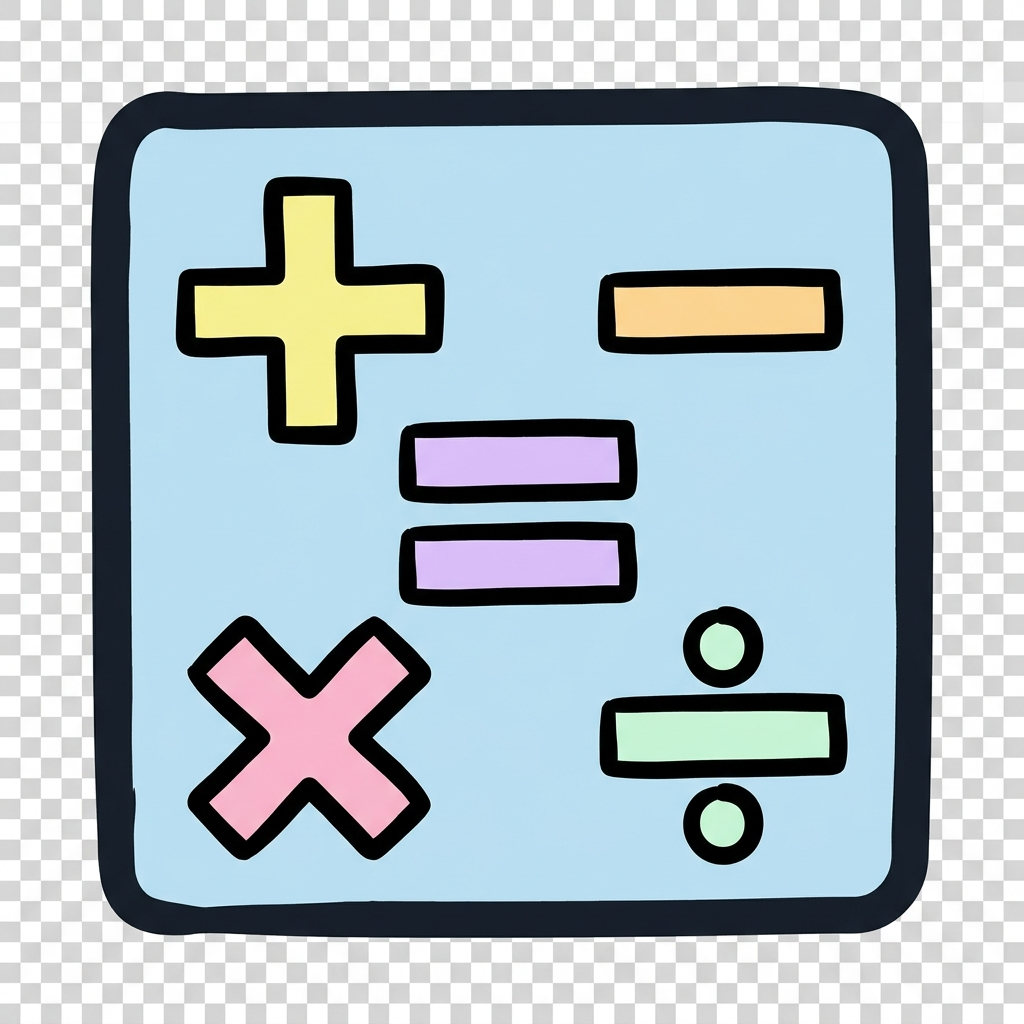
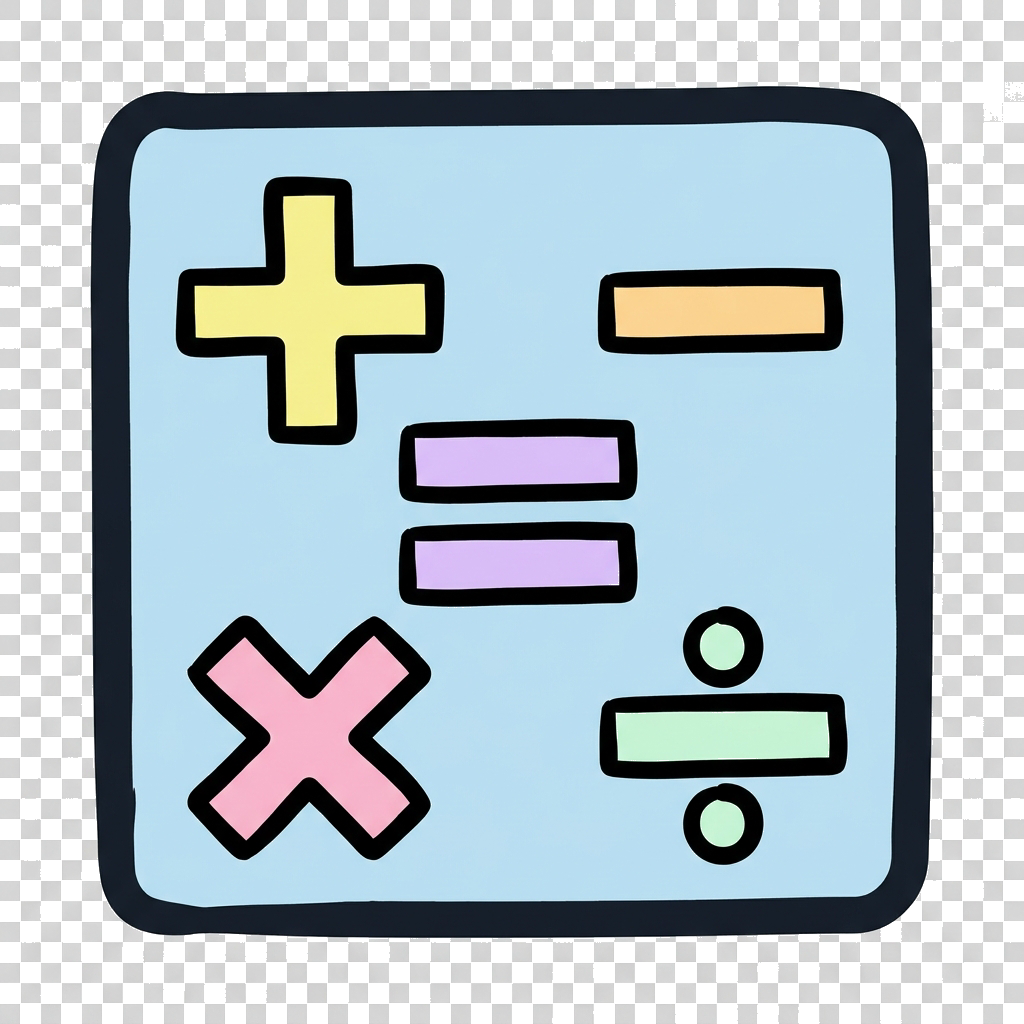
fix blog crash

Changed region(s): [[0.9375, 0.0625, 1.0, 0.125]]

diff --git a/src/pages/Blog.tsx b/src/pages/Blog.tsx
@@ -42,7 +42,7 @@ const posts: BlogMeta[] = Object.entries(modules).map(([path, rawContent]) => {
     draft: attributes.draft === 'true' || attributes.draft === true,
     slug 
   } as BlogMeta;
-}).filter(p => !p.draft || import.meta.env.DEV).sort((a, b) => new Date(b.date).getTime() - new Date(a.date).getTime());
+}).filter(p => !p.draft || import.meta.env.DEV).sort((a, b) => new Date(b.date || Date.now()).getTime() - new Date(a.date || Date.now()).getTime());
 
 const MultiSelectDropdown = ({ options, selected, onChange, placeholder }: any) => {
   const [isOpen, setIsOpen] = useState(false);
@@ -133,14 +133,14 @@ const Blog = () => {
   const [selectedYear, setSelectedYear] = useState<string>('All');
   const [sortOrder, setSortOrder] = useState<'newest' | 'oldest'>('newest');
 
-  const categories = Array.from(new Set(posts.map(p => p.category)));
-  const years = ['All', ...Array.from(new Set(posts.map(p => new Date(p.date).getFullYear().toString())))].sort((a, b) => b.localeCompare(a));
+  const categories = Array.from(new Set(posts.map(p => p.category).filter(Boolean)));
+  const years = ['All', ...Array.from(new Set(posts.map(p => new Date(p.date || Date.now()).getFullYear().toString())))].sort((a, b) => b.localeCompare(a));
 
   const filteredPosts = posts.filter(p => {
     const matchesCategory = selectedCategories.length === 0 || selectedCategories.includes(p.category);
-    const matchesSearch = p.title.toLowerCase().includes(searchQuery.toLowerCase()) || 
-                          p.excerpt.toLowerCase().includes(searchQuery.toLowerCase());
-    const postYear = new Date(p.date).getFullYear().toString();
+    const matchesSearch = (p.title || '').toLowerCase().includes(searchQuery.toLowerCase()) || 
+                          (p.excerpt || '').toLowerCase().includes(searchQuery.toLowerCase());
+    const postYear = new Date(p.date || Date.now()).getFullYear().toString();
     const matchesYear = selectedYear === 'All' || postYear === selectedYear;
     
     return matchesCategory && matchesSearch && matchesYear;
